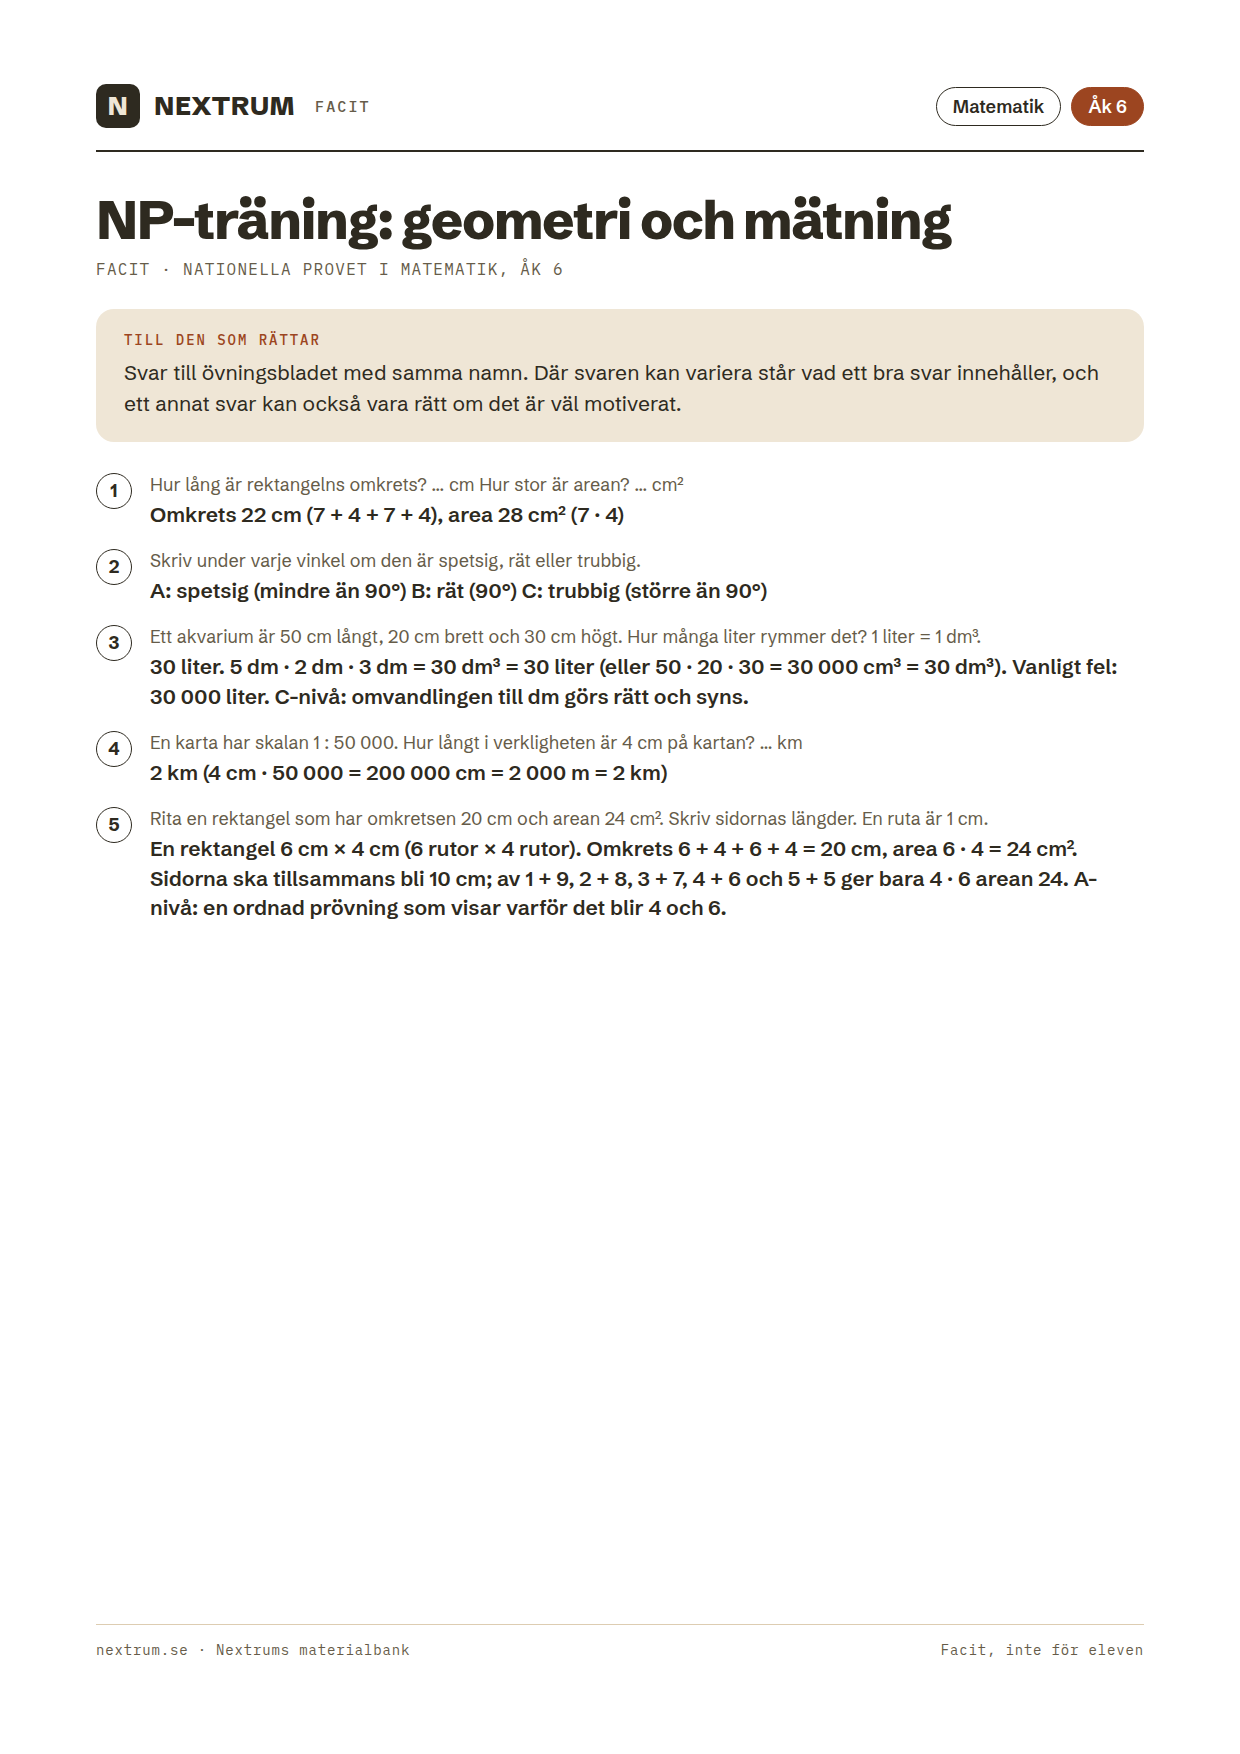
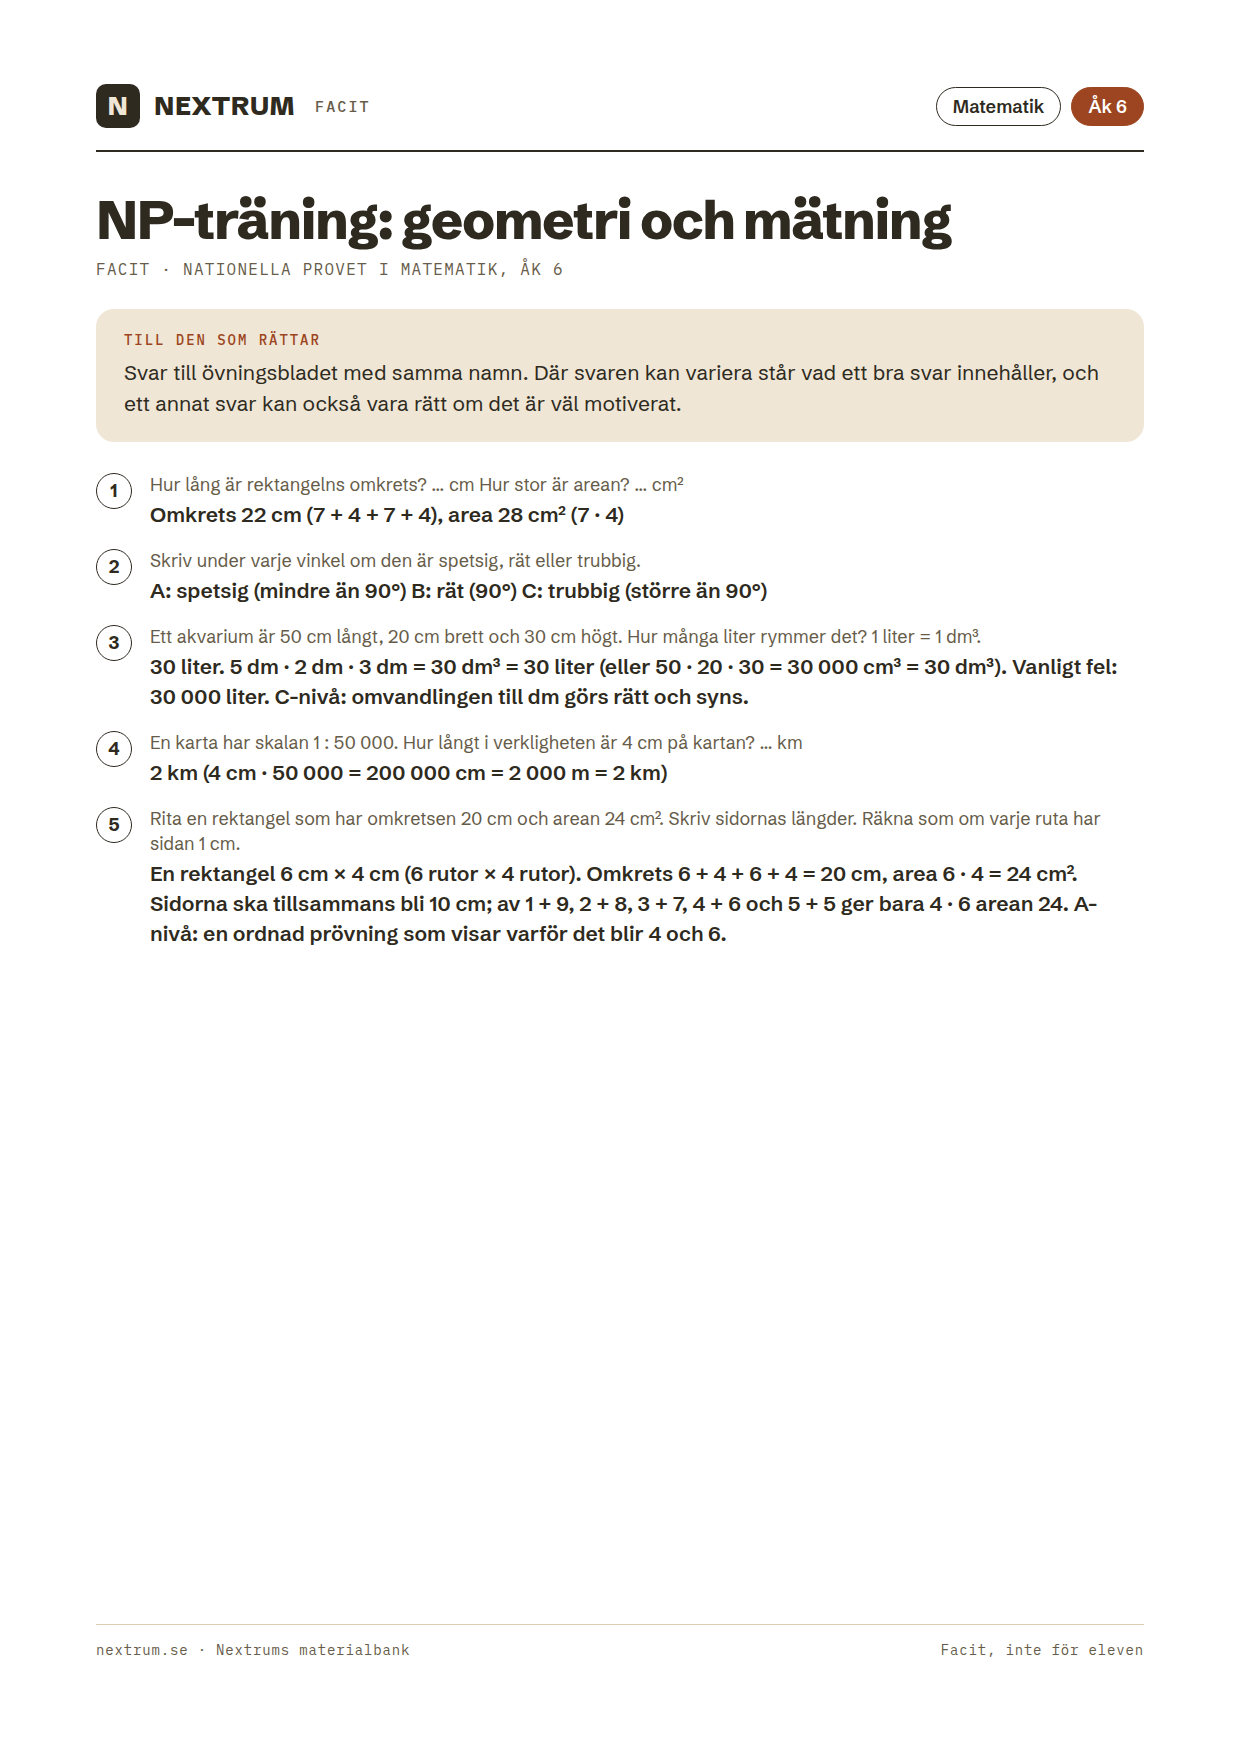
Fas 15.9: blindkontrollen av NP åk 6 rättar facit och två blad
Alla 92 svar stämde i sak. Facit sa att 4 · 25 väljs för att det ger
"ett jämnt tal", men 4 · 37 är också jämnt: det som gör uträkningen lätt
är hundratalet. Exemplet på hur man förklarar ett svårt ord säger nu vad
ett däggdjur är utan att bara honan ger di. Rutbladet säger "räkna som
om" rutan är 1 cm, och grammatikbladets "-ed" bryts inte längre efter
bindestrecket.

Claude-Session: https://claude.ai/code/session_011LBvXSaptKobfKq6P5G3d3

Changed region(s): [[0.1226, 0.4618, 0.8887, 0.5542]]

diff --git a/verktyg/bladen/np_ak6.py b/verktyg/bladen/np_ak6.py
@@ -141,7 +141,7 @@ BLAD = [
                      flera(vinkel(40, langd=110, namn='A'), vinkel(90, langd=110, namn='B'), vinkel(130, langd=110, namn='C'))),
                     ('Ett akvarium är 50 cm långt, 20 cm brett och 30 cm högt. Hur många liter rymmer det? 1 liter = 1 dm³. {C}', 1),
                     ('En karta har skalan 1 : 50 000. Hur långt i verkligheten är 4 cm på kartan? [] km {C}', 0),
-                    ('Rita en rektangel som har omkretsen 20 cm och arean 24 cm². Skriv sidornas längder. En ruta är 1 cm. {A}', 'ruta')],
+                    ('Rita en rektangel som har omkretsen 20 cm och arean 24 cm². Skriv sidornas längder. Räkna som om varje ruta har sidan 1 cm. {A}', 'ruta')],
          beskrivning='Träning inför nationella provet i matematik åk 6: omkrets och area, volym och liter, vinklar, skala och en rektangel att konstruera.'),
 
     dict(fil='ak6-np-matematik-statistik-och-monster', arskurs='ak6', amne='Matematik',
@@ -283,13 +283,13 @@ BLAD = [
          instruktion=['Ett faktablad om verbformer och frågeord som ofta behövs på engelska, med exempel.',
                       'Läs ett avsnitt i taget och pröva sedan uppgifterna längst ner.'],
          text=['# Present simple',
-               "Det man gör ofta eller alltid: I play, you play. Efter he, she, it och ett substantiv i singular får verbet -s: "
+               "Det man gör ofta eller alltid: I play, you play. Efter he, she, it och ett substantiv i singular får verbet -s: "
                "she plays, my sister plays. Frågor och nekande meningar bildas med do och does: Do you like pizza? She doesn't "
                "like fish.",
                '# Present continuous',
-               'Det som pågår just nu: I am reading, she is playing, they are eating. Bildas med am, is eller are och verbet med -ing.',
+               'Det som pågår just nu: I am reading, she is playing, they are eating. Bildas med am, is eller are och verbet med -ing.',
                '# Past simple',
-               'Det som hände vid en bestämd tid som är slut, till exempel yesterday eller last week: regelbundna verb får -ed, play – played och walk – walked. Vanliga oregelbundna verb: '
+               'Det som hände vid en bestämd tid som är slut, till exempel yesterday eller last week: regelbundna verb får -ed, play – played och walk – walked. Vanliga oregelbundna verb: '
                'go – went, see – saw, eat – ate, have – had, come – came.',
                '# Frågeord',
                'What (vad), where (var), when (när), who (vem), why (varför), how (hur) och how many (hur många).'],

diff --git a/verktyg/bladen/facit_np_ak6.py b/verktyg/bladen/facit_np_ak6.py
@@ -82,7 +82,7 @@ FACIT = {
         '8 grader (3 grader upp till 0 och 5 grader till)',
         '9 (täljare och nämnare gånger 3)',
         '3 700. Byt ordning: 4 · 25 = 100 och 100 · 37 = 3 700. C-nivå: förklaringen säger att man får byta ordning '
-        'på faktorerna och väljer ett par som ger ett jämnt tal.',
+        'på faktorerna och väljer ett par som ger ett jämnt hundratal (4 · 25 = 100).',
         '22 och 28: 50 − 6 = 44, 44 / 2 = 22, 22 + 6 = 28. Kontroll: 22 + 28 = 50. Högre nivå: en metod som går att '
         'följa och en kontroll, inte bara gissade tal.',
         'Nej. Motexempel: 6 · 0,5 = 3, mindre än 6 (eller 4 · 1 = 4, inte större än 4). A-nivå: motexemplet och en '
@@ -142,7 +142,7 @@ FACIT = {
         'ord. Högre nivå: fler och säkrare fakta med förklaringar (eftersom, därför), god ordning mellan styckena och ett '
         'språk som passar läsaren.',
         'Eget svar. Eleven stryker åsikter och påhittat ("jag tycker", en historia) och förklarar svåra ord, t.ex. '
-        '"däggdjur, alltså ett djur som ger di".',
+        '"däggdjur, alltså ett djur vars ungar dricker mjölk från sin mamma".',
     ],
     'ak6-genomgang-berattelse-och-faktatext': [
         'Eget svar. Ilskan visas med kropp, röst eller handling, utan ordet "arg", t.ex. "Sara smällde igen dörren och '
